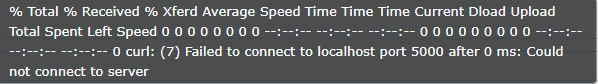
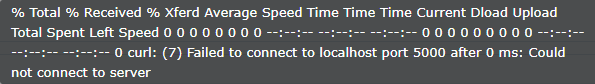
Restored to '5ccddad1db9a460735315258b9f69705bd85c775'
Coze-Restored-To: '5ccddad1db9a460735315258b9f69705bd85c775'
Coze-Commit-Type: restore

diff --git a/src/app/api/statistics/route.ts b/src/app/api/statistics/route.ts
@@ -77,20 +77,6 @@ export async function GET() {
       total_paid: totalPaid,
       pending_amount: totalFee - totalPaid,
       collection_rate: totalFee > 0 ? ((totalPaid / totalFee) * 100).toFixed(1) + '%' : '0%',
-      // 分项费用应交金额
-      tuition_fee: schoolSummaryData.tuition_fee || 0,
-      lunch_fee: schoolSummaryData.lunch_fee || 0,
-      nap_fee: schoolSummaryData.nap_fee || 0,
-      after_school_fee: schoolSummaryData.after_school_fee || 0,
-      club_fee: schoolSummaryData.club_fee || 0,
-      agency_fee: schoolSummaryData.agency_fee || 0,
-      // 分项费用已交金额
-      tuition_paid: paymentMap['tuition'] || 0,
-      lunch_paid: paymentMap['lunch'] || 0,
-      nap_paid: paymentMap['nap'] || 0,
-      after_school_paid: paymentMap['after_school'] || 0,
-      club_paid: paymentMap['club'] || 0,
-      agency_paid: schoolSummaryData.agency_paid || 0,
     };
 
     // 2. 全校各班级交费情况
@@ -105,15 +91,16 @@ export async function GET() {
         SUM(sf.club_fee) as club_fee,
         SUM(sf.agency_fee) as agency_fee,
         SUM(sf.agency_paid) as agency_paid,
-        COALESCE(SUM(pm.tuition_paid), 0) as tuition_paid,
-        COALESCE(SUM(pm.lunch_paid), 0) as lunch_paid,
-        COALESCE(SUM(pm.nap_paid), 0) as nap_paid,
-        COALESCE(SUM(pm.after_school_paid), 0) as after_school_paid,
-        COALESCE(SUM(pm.club_paid), 0) as club_paid
+        COALESCE(pm.tuition_paid, 0) as tuition_paid,
+        COALESCE(pm.lunch_paid, 0) as lunch_paid,
+        COALESCE(pm.nap_paid, 0) as nap_paid,
+        COALESCE(pm.after_school_paid, 0) as after_school_paid,
+        COALESCE(pm.club_paid, 0) as club_paid
       FROM student_fees sf
       LEFT JOIN (
         SELECT 
           s.id as student_id,
+          s.class_name,
           SUM(CASE WHEN p.fee_type = 'tuition' THEN p.amount ELSE 0 END) as tuition_paid,
           SUM(CASE WHEN p.fee_type = 'lunch' THEN p.amount ELSE 0 END) as lunch_paid,
           SUM(CASE WHEN p.fee_type = 'nap' THEN p.amount ELSE 0 END) as nap_paid,
@@ -121,9 +108,10 @@ export async function GET() {
           SUM(CASE WHEN p.fee_type = 'club' THEN p.amount ELSE 0 END) as club_paid
         FROM student_fees s
         LEFT JOIN payment_records p ON s.id = p.student_id
-        GROUP BY s.id
+        GROUP BY s.id, s.class_name
       ) pm ON sf.id = pm.student_id
       GROUP BY sf.class_name
+      ORDER BY sf.class_name
     `).all() as Array<{
       class_name: string;
       student_count: number;
@@ -156,42 +144,6 @@ export async function GET() {
       };
     });
 
-    // 按年级从低到高排序（一年 -> 二年 -> 三年...，班级号升序）
-    const gradeOrder: Record<string, number> = {
-      '一': 1, '二': 2, '三': 3, '四': 4, '五': 5, '六': 6,
-      '七': 7, '八': 8, '九': 9, '十': 10,
-      '1': 1, '2': 2, '3': 3, '4': 4, '5': 5, '6': 6,
-      '7': 7, '8': 8, '9': 9, '10': 10
-    };
-
-    // 解析班级名称，提取年级和班级号
-    const parseClassName = (className: string) => {
-      // 匹配格式如: "一年1班"、"二年2班"、"三年1班" 等
-      const match = className.match(/^(.+?)(\d+)班$/);
-      if (match) {
-        const gradePart = match[1]; // "一年"、"二年" 等
-        const classNum = parseInt(match[2], 10); // 班级号
-        
-        // 从年级部分提取年级数字（取最后一个字符）
-        const gradeChar = gradePart.slice(-1); // "年"前面的字符
-        const gradeNum = gradeOrder[gradeChar] || 99;
-        
-        return { gradeNum, classNum };
-      }
-      return { gradeNum: 99, classNum: 99 }; // 无法解析的放最后
-    };
-
-    // 排序班级统计
-    classStatsWithTotals.sort((a, b) => {
-      const parsedA = parseClassName(a.class_name);
-      const parsedB = parseClassName(b.class_name);
-      
-      if (parsedA.gradeNum !== parsedB.gradeNum) {
-        return parsedA.gradeNum - parsedB.gradeNum; // 年级升序
-      }
-      return parsedA.classNum - parsedB.classNum; // 班级号升序
-    });
-
     // 3. 各项目参与人数（全校）
     const projectStats = db.prepare(`
       SELECT 
@@ -212,82 +164,6 @@ export async function GET() {
       club_count: number;
       agency_count: number;
     };
-
-    // 3.1 各项目完成情况统计（完成人数/应交人数）
-    // 完成人数：已交金额 >= 应交金额的学生数
-    const completionStatsData = db.prepare(`
-      SELECT 
-        SUM(CASE WHEN sf.tuition_fee > 0 AND COALESCE(pm.tuition_paid, 0) >= sf.tuition_fee THEN 1 ELSE 0 END) as tuition_completed,
-        SUM(CASE WHEN sf.lunch_fee > 0 AND COALESCE(pm.lunch_paid, 0) >= sf.lunch_fee THEN 1 ELSE 0 END) as lunch_completed,
-        SUM(CASE WHEN sf.nap_fee > 0 AND COALESCE(pm.nap_paid, 0) >= sf.nap_fee THEN 1 ELSE 0 END) as nap_completed,
-        SUM(CASE WHEN sf.after_school_fee > 0 AND COALESCE(pm.after_school_paid, 0) >= sf.after_school_fee THEN 1 ELSE 0 END) as after_school_completed,
-        SUM(CASE WHEN sf.club_fee > 0 AND COALESCE(pm.club_paid, 0) >= sf.club_fee THEN 1 ELSE 0 END) as club_completed,
-        SUM(CASE WHEN sf.agency_fee > 0 AND sf.agency_paid >= sf.agency_fee THEN 1 ELSE 0 END) as agency_completed
-      FROM student_fees sf
-      LEFT JOIN (
-        SELECT 
-          s.id as student_id,
-          SUM(CASE WHEN p.fee_type = 'tuition' THEN p.amount ELSE 0 END) as tuition_paid,
-          SUM(CASE WHEN p.fee_type = 'lunch' THEN p.amount ELSE 0 END) as lunch_paid,
-          SUM(CASE WHEN p.fee_type = 'nap' THEN p.amount ELSE 0 END) as nap_paid,
-          SUM(CASE WHEN p.fee_type = 'after_school' THEN p.amount ELSE 0 END) as after_school_paid,
-          SUM(CASE WHEN p.fee_type = 'club' THEN p.amount ELSE 0 END) as club_paid
-        FROM student_fees s
-        LEFT JOIN payment_records p ON s.id = p.student_id
-        GROUP BY s.id
-      ) pm ON sf.id = pm.student_id
-    `).get() as {
-      tuition_completed: number;
-      lunch_completed: number;
-      nap_completed: number;
-      after_school_completed: number;
-      club_completed: number;
-      agency_completed: number;
-    };
-
-    const completionStats = {
-      tuition: { total: projectStats.tuition_count || 0, completed: completionStatsData.tuition_completed || 0 },
-      lunch: { total: projectStats.lunch_count || 0, completed: completionStatsData.lunch_completed || 0 },
-      nap: { total: projectStats.nap_count || 0, completed: completionStatsData.nap_completed || 0 },
-      after_school: { total: projectStats.after_school_count || 0, completed: completionStatsData.after_school_completed || 0 },
-      club: { total: projectStats.club_count || 0, completed: completionStatsData.club_completed || 0 },
-      agency: { total: projectStats.agency_count || 0, completed: completionStatsData.agency_completed || 0 },
-    };
-
-    // 3.2 各班级项目参与人数统计
-    const classProjectStats = db.prepare(`
-      SELECT 
-        class_name,
-        COUNT(*) as total_students,
-        SUM(CASE WHEN tuition_fee > 0 THEN 1 ELSE 0 END) as tuition_count,
-        SUM(CASE WHEN lunch_fee > 0 THEN 1 ELSE 0 END) as lunch_count,
-        SUM(CASE WHEN nap_fee > 0 THEN 1 ELSE 0 END) as nap_count,
-        SUM(CASE WHEN after_school_fee > 0 THEN 1 ELSE 0 END) as after_school_count,
-        SUM(CASE WHEN club_fee > 0 THEN 1 ELSE 0 END) as club_count,
-        SUM(CASE WHEN agency_fee > 0 THEN 1 ELSE 0 END) as agency_count
-      FROM student_fees
-      GROUP BY class_name
-    `).all() as Array<{
-      class_name: string;
-      total_students: number;
-      tuition_count: number;
-      lunch_count: number;
-      nap_count: number;
-      after_school_count: number;
-      club_count: number;
-      agency_count: number;
-    }>;
-
-    // 按年级排序班级项目统计
-    classProjectStats.sort((a, b) => {
-      const parsedA = parseClassName(a.class_name);
-      const parsedB = parseClassName(b.class_name);
-      
-      if (parsedA.gradeNum !== parsedB.gradeNum) {
-        return parsedA.gradeNum - parsedB.gradeNum;
-      }
-      return parsedA.classNum - parsedB.classNum;
-    });
 
     // 4. 月度各班级缴费统计
     // 先获取所有可用月份
@@ -338,13 +214,6 @@ export async function GET() {
       total: number;
     }>> = {};
 
-    // 同时生成按月汇总的数组格式（用于 stats 页面）
-    const monthlyTotals: Record<string, {
-      month: string;
-      payments: Record<string, { amount: number; count: number }>;
-      total: number;
-    }> = {};
-
     monthlyClassStats.forEach(stat => {
       if (!monthlyClassData[stat.month]) {
         monthlyClassData[stat.month] = {};
@@ -361,26 +230,7 @@ export async function GET() {
         count: stat.payment_count,
       };
       monthlyClassData[stat.month][stat.class_name].total += stat.total_amount;
-
-      // 同时汇总到月度总计
-      if (!monthlyTotals[stat.month]) {
-        monthlyTotals[stat.month] = {
-          month: stat.month,
-          payments: {},
-          total: 0,
-        };
-      }
-      monthlyTotals[stat.month].payments[stat.fee_type] = {
-        amount: (monthlyTotals[stat.month].payments[stat.fee_type]?.amount || 0) + stat.total_amount,
-        count: (monthlyTotals[stat.month].payments[stat.fee_type]?.count || 0) + stat.payment_count,
-      };
-      monthlyTotals[stat.month].total += stat.total_amount;
     });
-
-    // 转换为数组格式，按月份降序排列
-    const monthlyStatsArray = Object.values(monthlyTotals).sort((a, b) => 
-      b.month.localeCompare(a.month)
-    );
 
     // 费用类型映射
     const feeTypeMap: Record<string, string> = {
@@ -395,18 +245,6 @@ export async function GET() {
     return NextResponse.json({
       schoolSummary,
       classStats: classStatsWithTotals,
-      completionStats,
-      classProjectStats,
-      schoolProjectStats: {
-        total_students: projectStats.total_students || 0,
-        tuition: projectStats.tuition_count || 0,
-        lunch: projectStats.lunch_count || 0,
-        nap: projectStats.nap_count || 0,
-        after_school: projectStats.after_school_count || 0,
-        club: projectStats.club_count || 0,
-        agency: projectStats.agency_count || 0,
-      },
-      // 为保持向后兼容，同时返回 projectStats
       projectStats: {
         total_students: projectStats.total_students || 0,
         tuition: projectStats.tuition_count || 0,
@@ -416,8 +254,7 @@ export async function GET() {
         club: projectStats.club_count || 0,
         agency: projectStats.agency_count || 0,
       },
-      monthlyStats: monthlyStatsArray,
-      monthlyClassStats: {
+      monthlyStats: {
         availableMonths: availableMonths.map(m => m.month),
         classStats: monthlyClassData,
       },

diff --git a/src/app/fees/stats/page.tsx b/src/app/fees/stats/page.tsx
@@ -91,7 +91,7 @@ interface StatsData {
   schoolSummary: SchoolSummary;
   classStats: ClassStat[];
   projectStats: ProjectStats;
-  monthlyClassStats: MonthlyStats;
+  monthlyStats: MonthlyStats;
   feeTypeMap: Record<string, string>;
 }
 
@@ -116,8 +116,8 @@ function StatsContent() {
       const result = await response.json();
       setStatsData(result);
       // 默认选择第一个月份，提升响应速度
-      if (result?.monthlyClassStats?.availableMonths?.length > 0) {
-        setSelectedMonth(result.monthlyClassStats.availableMonths[0]);
+      if (result?.monthlyStats?.availableMonths?.length > 0) {
+        setSelectedMonth(result.monthlyStats.availableMonths[0]);
       }
     } catch (error) {
       console.error('Failed to fetch statistics:', error);
@@ -404,7 +404,7 @@ function StatsContent() {
                       </SelectTrigger>
                       <SelectContent>
                         <SelectItem value="all">全部月份</SelectItem>
-                        {statsData.monthlyClassStats.availableMonths.map((month) => (
+                        {statsData.monthlyStats.availableMonths.map((month) => (
                           <SelectItem key={month} value={month}>
                             {month}
                           </SelectItem>
@@ -415,7 +415,7 @@ function StatsContent() {
                       onClick={() => handleExportMonthlyStats(selectedMonth === 'all' || selectedMonth === '')}
                       variant="outline"
                       size="sm"
-                      disabled={Object.keys(statsData.monthlyClassStats.classStats).length === 0}
+                      disabled={Object.keys(statsData.monthlyStats.classStats).length === 0}
                     >
                       <Download className="h-4 w-4 mr-1" />
                       导出{selectedMonth === 'all' || selectedMonth === '' ? '全部' : selectedMonth}
@@ -449,8 +449,8 @@ function StatsContent() {
                           const grandTotals: Record<string, number> = {};
                           feeTypes.forEach(type => grandTotals[type] = 0);
                           
-                          statsData.monthlyClassStats.availableMonths.forEach((month) => {
-                            const monthData = statsData.monthlyClassStats.classStats[month] || {};
+                          statsData.monthlyStats.availableMonths.forEach((month) => {
+                            const monthData = statsData.monthlyStats.classStats[month] || {};
                             const classes = Object.keys(monthData).sort();
                             
                             if (classes.length === 0) return;
@@ -547,7 +547,7 @@ function StatsContent() {
                       </TableHeader>
                       <TableBody>
                         {(() => {
-                          const monthData = statsData.monthlyClassStats.classStats[selectedMonth] || {};
+                          const monthData = statsData.monthlyStats.classStats[selectedMonth] || {};
                           const classes = Object.keys(monthData).sort();
                           const feeTypes = ['tuition', 'lunch', 'nap', 'after_school', 'club', 'agency'] as const;
                           
@@ -626,8 +626,8 @@ function StatsContent() {
       // 导出全部月份
       let hasData = false;
       
-      statsData.monthlyClassStats.availableMonths.forEach((month) => {
-        const monthData = statsData.monthlyClassStats.classStats[month] || {};
+      statsData.monthlyStats.availableMonths.forEach((month) => {
+        const monthData = statsData.monthlyStats.classStats[month] || {};
         const classes = Object.keys(monthData).sort();
         
         if (classes.length === 0) return;
@@ -667,7 +667,7 @@ function StatsContent() {
       }
     } else {
       // 导出选中月份
-      const monthData = statsData.monthlyClassStats.classStats[selectedMonth] || {};
+      const monthData = statsData.monthlyStats.classStats[selectedMonth] || {};
       const classes = Object.keys(monthData).sort();
 
       if (classes.length === 0) {

diff --git a/src/app/api/expenses/stats/route.ts b/src/app/api/expenses/stats/route.ts
@@ -142,13 +142,6 @@ export async function GET(request: NextRequest) {
         monthList: monthList.map(m => m.month),
         totalAmount: totalStats.total_amount || 0,
         totalRecords: totalStats.record_count || 0
-      },
-      // 为保持与 stats 页面的兼容性，同时返回扁平格式
-      total: totalStats.total_amount || 0,
-      count: totalStats.record_count || 0,
-      categoryStats: {
-        daily: categoryStats.find(c => c.category === 'daily')?.total_amount || 0,
-        personnel: categoryStats.find(c => c.category === 'personnel')?.total_amount || 0
       }
     });
   } catch (error) {
